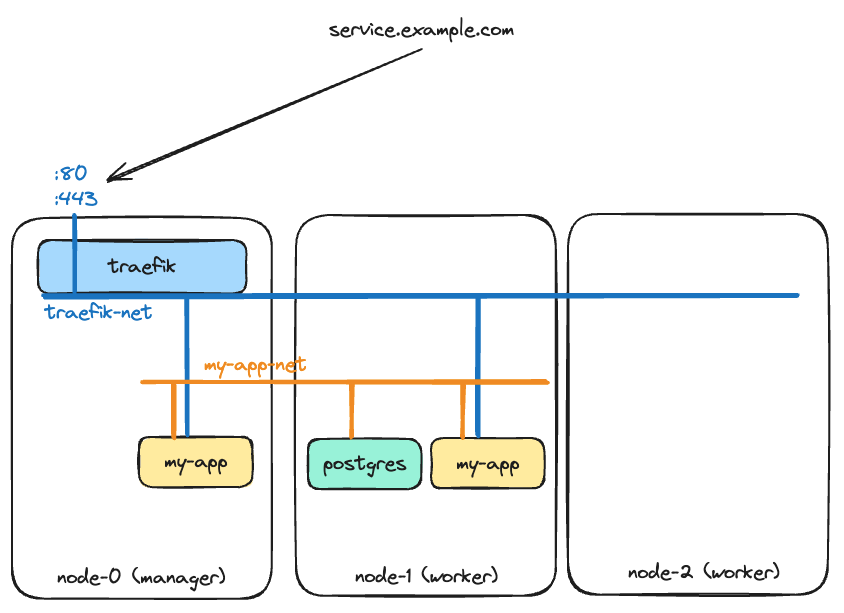
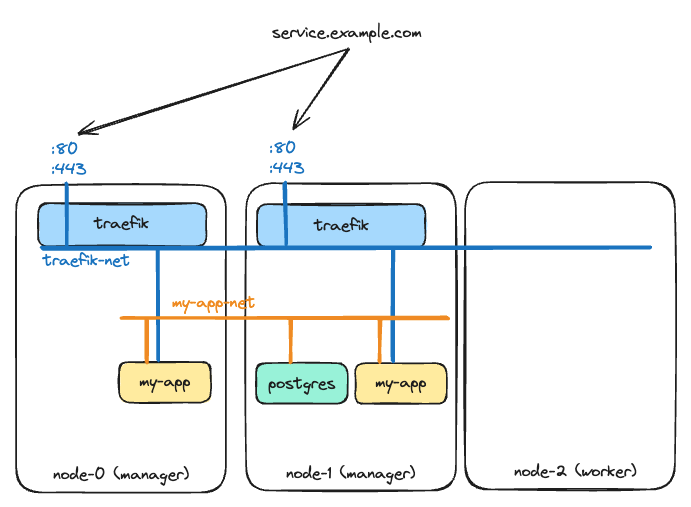
docs

Changed region(s): [[0.0, 0.1479, 1.0, 1.0], [0.3647, 0.0296, 0.6078, 0.1775], [0.4255, 0.2071, 0.4559, 0.2663]]

diff --git a/README.md b/README.md
@@ -1,6 +1,6 @@
 # Automated Docker Swarm bootstrap using Ansible
 
-> Ei você! É BR? Dá uma olhada em [/infra](/infra/) onde já temos manifestos terraform pra maior e melhor [MagaluCloud](https://magalu.cloud/)! Com um comando, um cluster inteiro configurado!
+> Ei você! É BR? Dá uma olhada em [/infra](/infra/) onde já temos manifestos terraform pra maior e melhor [MagaluCloud](https://magalu.cloud/)! Com um comando, um cluster inteiro configurado (já rodamos os playbooks ansible junto com o terraform pra vc)!
 
 Build a Docker Swarm cluster using Ansible with swarm. The goal is to rapidly bootstrap a Docker Swarm cluster on machines running: Debian; Ubuntu.
 
@@ -13,23 +13,21 @@ This repo aims to be a **simple** (however somewhat production-ready) bootstrap 
 ### ✅ System Requirements
 
 - Control Node (the machine you will be running the Ansible commands). I am using Ansible 2.15.1.
+  - [Anisble](https://www.ansible.com/)
+  - [Terraform](https://www.terraform.io/)
 - All swarm nodes (manager and workers) should have passwordless SSH access, this can be setup by passing your SSH public keys when you create your VM. You can also check this [Digital Ocean Guide](https://www.digitalocean.com/community/tutorials/how-to-configure-ssh-key-based-authentication-on-a-linux-server) to set up ssh key based authentication on linux machines.
 
 ## 🚀 Getting Started
 
 ### 💻 Hardware we will use
 
-For this example, we will be using the [Oracle Cloud Allways-Free Tier](https://www.oracle.com/cloud/free/). We can instantiate one machine per Fault Domain, ensuring our VMs are not all on the same physical hardware.
+For this example, we will be using [MagaluCloud](https://magalu.cloud/), but it also works with seamlessly with [Oracle Cloud Allways-Free Tier](https://www.oracle.com/cloud/free/).
 
-For this demo, we are using 3 machines (all of them free):
+For this demo, we are using 3 machines:
 
-- Ampere aarch64 Altra 4-core CPU w/ 24GB RAM
-- AMD x86_64 EPYC 1-core CPU w/ 1GB RAM
-- AMD x86_64 EPYC 1-core CPU w/ 1GB RAM
+- 3x BV4-8-100: 4vCPU 8GB of RAM and 100GB disk space
 
-This gives us a total of 8-threads and 26GB of RAM for free!
-
-Since docker swarm is a distributed container orchestration tool, we need `manager` and `worker` nodes. Add the public-ip (for more advanced users; yes, you can use a bastion and keep the worker nodes unaccessible publicly) of all manager nodes (in our case, just the left one) to your DNS, as traefik (the reverse proxy we will be using must run on managers to retrieve info about the swarm). The needed ports for communication between the nodes are: `:2377`, `:7946` and `:4789`.
+Since docker swarm is a distributed container orchestration tool, we need `manager` and `worker` nodes. Add the public-ip (for more advanced users; yes, you can use a bastion and keep the worker nodes unaccessible publicly) of all manager nodes (in our case, just the left one) to your DNS, as traefik (the reverse proxy we will be using must run on managers to retrieve info about the swarm). The needed ports for communication between the nodes are: `:2377`, `:7946` and `:4789` (remember to allow traffic on these ports).
 
 > You should maintain an odd number of managers in the swarm to support manager node failures. Having an odd number of managers ensures that during a network partition, there is a higher chance that the quorum remains available to process requests if the network is partitioned into two sets. Keeping the quorum is not guaranteed if you encounter more than two network partitions. https://docs.docker.com/engine/swarm/admin_guide/#add-manager-nodes-for-fault-tolerance
 
@@ -37,7 +35,7 @@ Our architecture will look something like this (if you decide to bootstrap inclu
 
 ![architecture](/arch.png)
 
-The DNS will point to our manager nodes (in this case, just the left one) and traefik will be exposed on port 80 (HTTP) and 443 (HTTPS), we also set up redirection of port 80 -> 443 via traefik. Note that the `my-app` instance access the database without being exposed directly to the web, the "my-app-net" is a docker network with the `overlay` driver, this means that it exists on all nodes, allowing for inter-node comunication.
+The DNS will point to our manager nodes (in this case, `node-0` and `node-1`) and traefik will be exposed on port 80 (HTTP) and 443 (HTTPS), we also set up redirection of port 80 -> 443 via traefik. Note that the `my-app` instance access the database without being exposed directly to the web, the "my-app-net" is a docker network with the `overlay` driver, this means that it exists on all nodes, allowing for inter-node comunication.
 
 ### 🍴Preparation
 
@@ -186,7 +184,7 @@ The user is `admin` and the password is the one you previously configured.
 Take a look at [examples](/examples/) to see examples of:
 
 - Stateful apps running in the cluster (take a note at the placement constraints in the compose).
-- A reverse proxy (L7) configuration; for L4, you'll have to run an NGINX (or your LB of preference) and map the ports `host:container`, routing them manually, just remember to configure the container to be restrained to a single (manager) node so there is no chance of it's IP changing.
+- A reverse proxy (L7) configuration; for L4, you'll have to run an HAProxy (or your LB of preference) and map the ports `host:container`, routing them manually, just remember to configure the container to be restrained to a single (manager) node so there is no chance of it's IP changing.
 - Example GitHub Actions Workflow CI (with multi-arch, needed for heterogeneous clouds) file that ends up triggering the shepherd daemon to do the CD locally in the cluster. The image tags to push on that workflow are: `repository-name:branch-name`.
 
 ### 🍪 Thanks

diff --git a/infra/README.md b/infra/README.md
@@ -10,4 +10,17 @@ Para começar, crie um grupo de segurança que expõe (TCP) as portas `:80`, `:4
 
 > NOTE: A CLI parece não estar completamente funcional na parte de VPCs/SecurityGroups, então adicione as regras ao security group padrão. Isso pois precisamos do ID dos security groups para adicionar ao [variables.tf](/infra/variables.tf).
 
-Após isso, cheque o [variables.tf](/infra/variables.tf) e complete-o com os dados.
+Após isso, cheque o [variables.tf](/infra/variables.tf) e complete-o com os dados. Lembre-se de se autenticar na [CLI da MagaluCloud](https://docs.magalu.cloud/docs/devops-tools/cli-mgc/how-to/download-and-install/):
+
+```sh
+mgc auth login
+```
+
+Após isso, basta rodar:
+
+```sh
+terraform init
+terraform apply
+```
+
+e...pronto! O terrafom irá gerar o output com os IPs das máquinas, adicione os managers em seu DNS.
